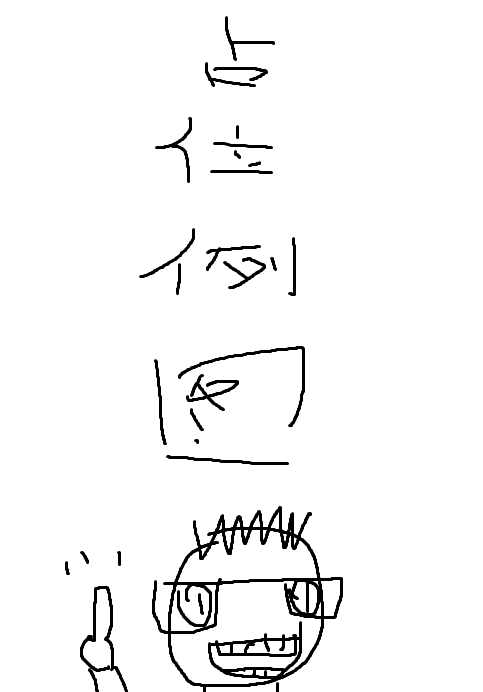
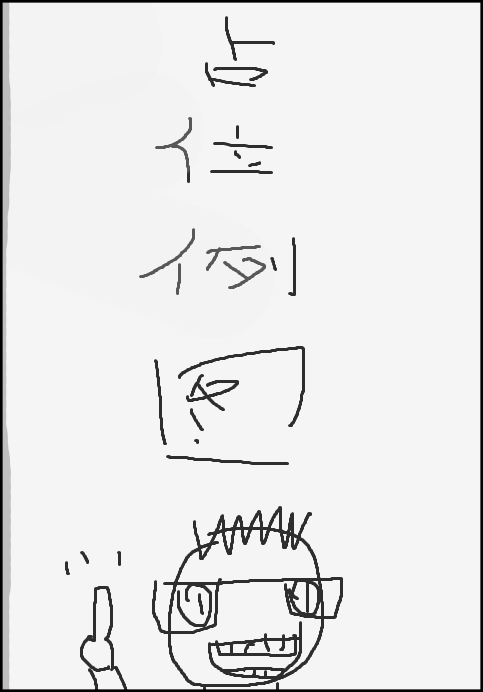
占位图改动，新增施工图，目录优化，文章施工

diff --git a/docs/articles/把比例画准吧.md b/docs/articles/把比例画准吧.md
@@ -1,12 +1,72 @@
-<img src="./images/noodlesIcon.png" height="200" style="object-fit:contain"/>
+## 把比例画准吧
+> 难度：入门级
 
-## 非常抱歉，本文尚在施工中，请过段时间再来
+<img src="../images/您来早了.png" />
 
-若想查看施工进度，可以去 GitHub 或 gitee 上查看 xxxcopy.md
-或直接在浏览器地址栏的地址右侧添加 copy 跳转查看
+## 先来看几张画吧
 
-<img src="./images/地址栏说明.png" style="object=fit:contain"/>
+在上一篇文章中，我们已经掌握了最基本的绘画思路，即`先打型，再描线`，
+本篇文章依旧讨论打型阶段的问题，我们这次的主题是**如何把物体的比例画准**。
 
-**or**
+我们来看下面的一张范画（是我们熟悉的蘑菇君）
 
-<img src="./images/GitHub说明.jpg" style="object=fit:contain"/>
+<img src="../images/占位.png" />
+
+直接来看这张图的话，感觉还不错，结构清晰，线条流畅。但如果我把它拿到原图上去对比呢？
+
+<img src="../images/占位.png" />
+
+感觉就有点。。不太对了？
+
+我们再看几张类似的对照图
+
+<img src="../images/占位.png" />
+
+。。罐子哥最近吃的不错
+
+<img src="../images/占位.png" />
+
+你跟你爸长挺像的
+
+<img src="../images/占位.png" />
+
+我是不是买错号了？
+
+看了上面的例图，结合标题，想必聪明的您早就发现问题啦！
+
+没错，上面所有的范画全都出现了一个画画新手最常见的问题之一——**比例不准！！！**
+
+> Tips:
+> 人们常说，观察能力是画画最重要的基本功之一，
+>
+> 像上面这样，看出一张图里出现的比例问题，也是观察能力的体现
+>
+> 虽然本系列文章的阅读顺序是线性的，但基础能力的训练并不一定要线性进行
+>
+> 虽然本文并没有细讲观察，后面也有专门探究观察能力的文章
+> 
+> 但您现在已经可以开始，有意识的观察一些物体、画作，训练自己的观察能力了！
+
+那么，我们要如何尽可能避免这些错误，减少自己画作的比例问题呢？
+
+观察，观察，还是——观察
+
+
+
+> Tips 2:
+>
+> 观察能力是打您学习绘画开始，始终如影随形的一门能力，
+>
+> 伴随着您的知识与技能提升，你的观察视点也会越来越丰富
+>
+> 也就是说，您的观察能力是会伴随您的绘画水平一起成长的
+>
+> 就现在而言，您至少已经知道了*比例*这个视点了！
+>
+> 以此发散，您的观察视点会越来越多，思维也会越来越活络
+>
+> 从画内到画外，图画比例到结构逻辑、色彩搭配，再到画面构图、运笔技法乃至作者的情绪表达
+>
+> 用您作为**画家的眼光**，开始观察这个世界吧！
+
+

diff --git a/docs/README.md b/docs/README.md
@@ -50,8 +50,8 @@
 
 - 起型篇
    1. [ ] [从框框开始起型吧](./articles/从框框开始起型吧.md?id=从框框开始起型小白级)
-   2. [ ] [把比例画准吧](./articles/把比例画准吧.md)
-   3. [ ] [神奇的外轮廓](./articles/神奇的外轮廓.md)
+   2. [ ] [把比例画准吧](./articles/把比例画准吧.md?id=把比例画准吧)
+   3. [ ] [神奇的外轮廓](./articles/神奇的外轮廓.md?id=把比例画准吧)
    4. [ ] 观察也要有大局观
    5. [ ] 你是懂抽象的
 - 简单构图设计篇

diff --git a/docs/_sidebar.md b/docs/_sidebar.md
@@ -4,5 +4,5 @@
 
 - 起型篇
     - [从框框开始起型吧](./articles/从框框开始起型吧.md?id=从框框开始起型小白级 "从框框开始起型吧")
-    - [把比例画准吧](./articles/把比例画准吧.md "把比例画准吧")
-    - [神奇的外轮廓](./articles/神奇的外轮廓.md "神奇的外轮廓")
+    - [把比例画准吧](./articles/把比例画准吧.md?id=把比例画准吧 "把比例画准吧")
+    - [神奇的外轮廓](./articles/神奇的外轮廓.md?id=神奇的外轮廓 "神奇的外轮廓")

diff --git a/docs/articles/神奇的外轮廓.md b/docs/articles/神奇的外轮廓.md
@@ -1,12 +1,3 @@
-<img src="./images/noodlesIcon.png" height="200" style="object-fit:contain"/>
+## 神奇的外轮廓
 
-## 非常抱歉，本文尚在施工中，请过段时间再来
-
-若想查看施工进度，可以去 GitHub 或 gitee 上查看 xxxcopy.md
-或直接在浏览器地址栏的地址右侧添加 copy 跳转查看
-
-<img src="./images/地址栏说明.png" style="object=fit:contain"/>
-
-**or**
-
-<img src="./images/GitHub说明.jpg" style="object=fit:contain"/>
+<img src="../images/您来早了.png" />

diff --git a/docs/articles/从框框开始起型吧.md b/docs/articles/从框框开始起型吧.md
@@ -2,6 +2,8 @@
 
 > 注意：本文正在施工中
 
+<img src="../images/您来早了.png" />
+
 难度：小白级
 
 ## 总之先画一张画吧
